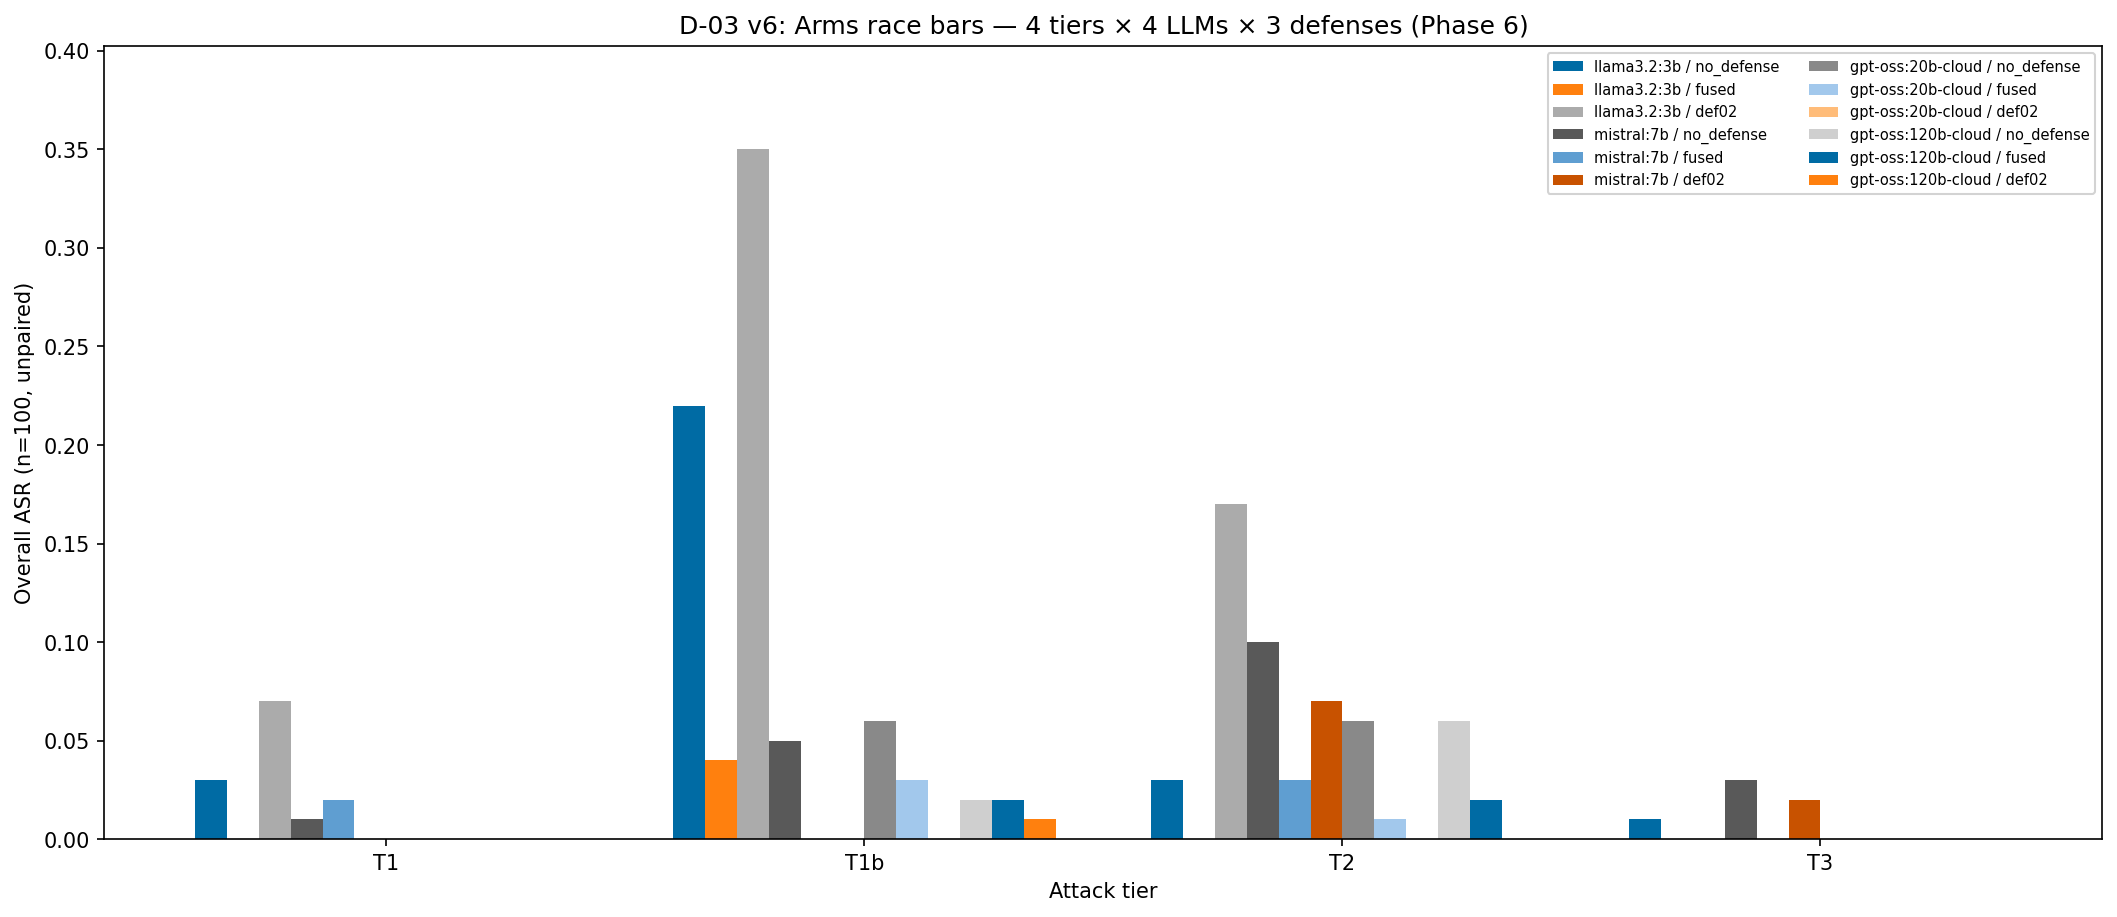
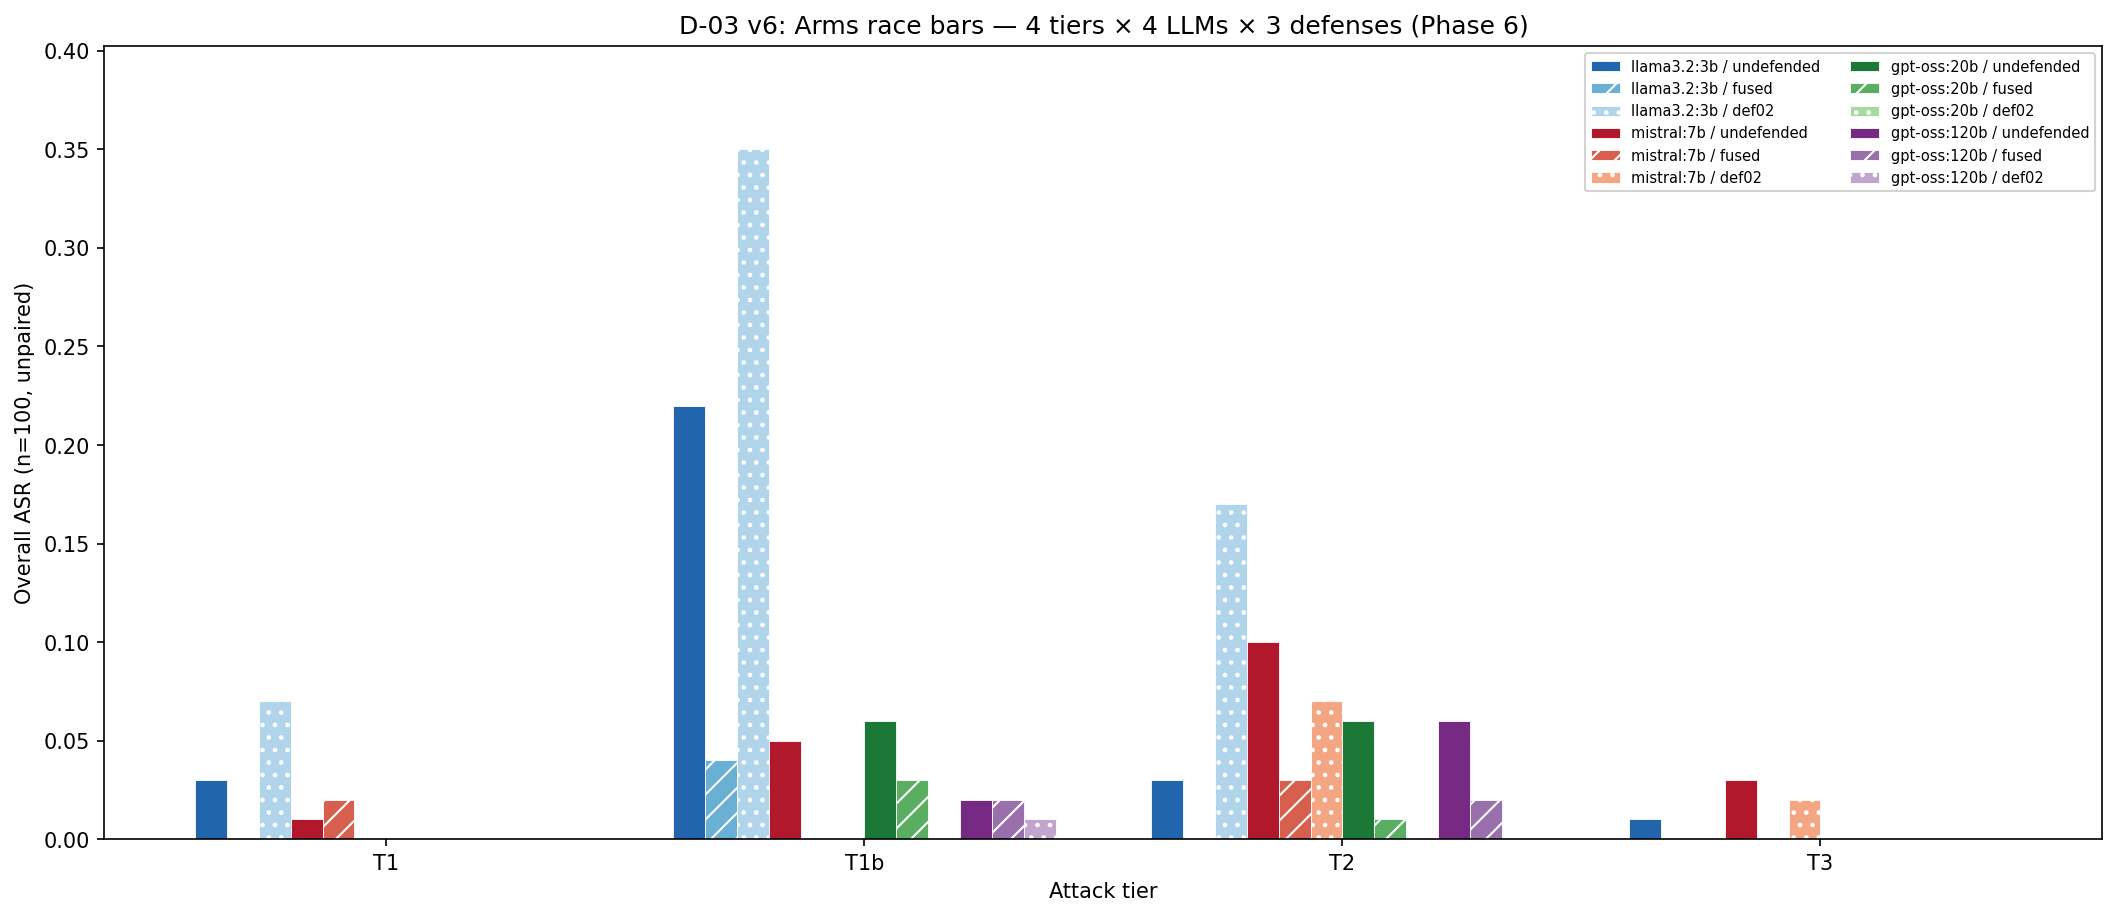
refactor(06-figs): improve arms race v6 color contrast — 4 muted families + hatching
ColorBrewer-inspired palette: blues/reds/greens/purples per model,
3 shades per defense (dark=undefended, mid=fused, light=def02).
Hatch patterns (//, ..) add second visual cue for defense tier.

diff --git a/scripts/make_figures.py b/scripts/make_figures.py
@@ -608,6 +608,22 @@ def render_d03_arms_race_v6(logs_dir: Path, output_dir: Path) -> None:
     nonzero_count = int(np.sum(~np.isnan(data) & (data > 0)))
     assert nonzero_count >= 5, f"D-03 v6 only {nonzero_count} non-zero cells"
 
+    # Muted, high-contrast palette: 4 model families (ColorBrewer-inspired),
+    # 3 shades per family (dark=no_defense, mid=fused, light=def02).
+    # Hatching adds a second visual cue for defense tier.
+    _bar_colors = {
+        "llama3.2_3b":        {"no_defense": "#2166ac", "fused": "#6aafd4", "def02": "#b0d4ea"},
+        "mistral_7b":         {"no_defense": "#b2182b", "fused": "#d6604d", "def02": "#f4a582"},
+        "gpt-oss_20b-cloud":  {"no_defense": "#1b7837", "fused": "#5aae61", "def02": "#a6dba0"},
+        "gpt-oss_120b-cloud": {"no_defense": "#762a83", "fused": "#9970ab", "def02": "#c2a5cf"},
+    }
+    _bar_hatches = {"no_defense": "", "fused": "//", "def02": ".."}
+    _defense_labels = {"no_defense": "undefended", "fused": "fused", "def02": "def02"}
+    _model_labels = {
+        "llama3.2_3b": "llama3.2:3b", "mistral_7b": "mistral:7b",
+        "gpt-oss_20b-cloud": "gpt-oss:20b", "gpt-oss_120b-cloud": "gpt-oss:120b",
+    }
+
     # Plot grouped bars
     fig, ax = plt.subplots(figsize=(14, 6))
     bar_width = 0.8 / max(n_groups, 1)
@@ -619,7 +635,11 @@ def render_d03_arms_race_v6(logs_dir: Path, output_dir: Path) -> None:
             x + gi * bar_width - 0.4 + bar_width / 2,
             col_safe,
             width=bar_width,
-            label=f"{model.replace('_',':',1)} / {defense}",
+            color=_bar_colors[model][defense],
+            hatch=_bar_hatches[defense],
+            edgecolor="white",
+            linewidth=0.4,
+            label=f"{_model_labels[model]} / {_defense_labels[defense]}",
         )
     ax.set_xticks(x)
     ax.set_xticklabels(["T1", "T1b", "T2", "T3"])
